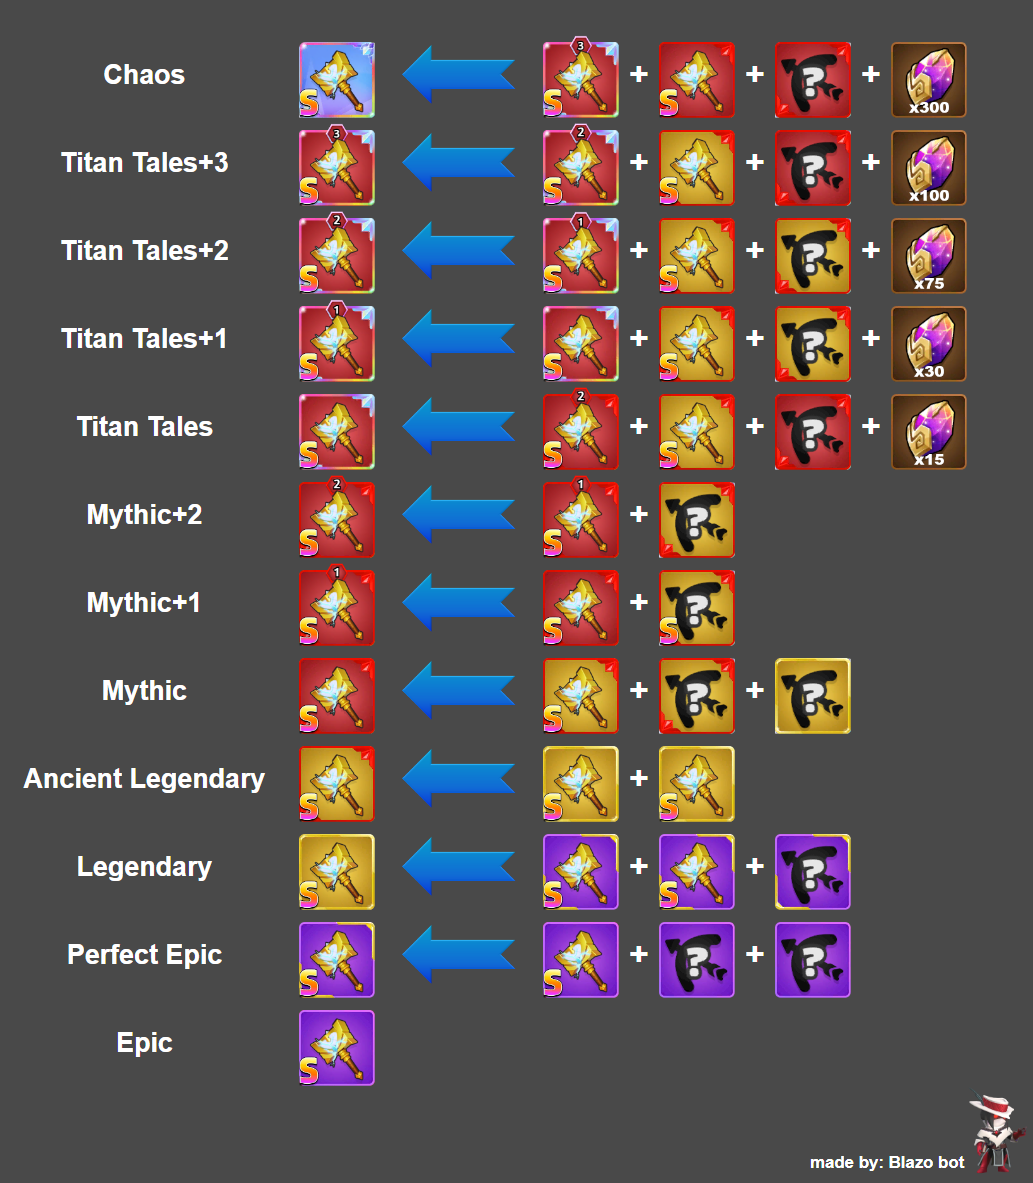
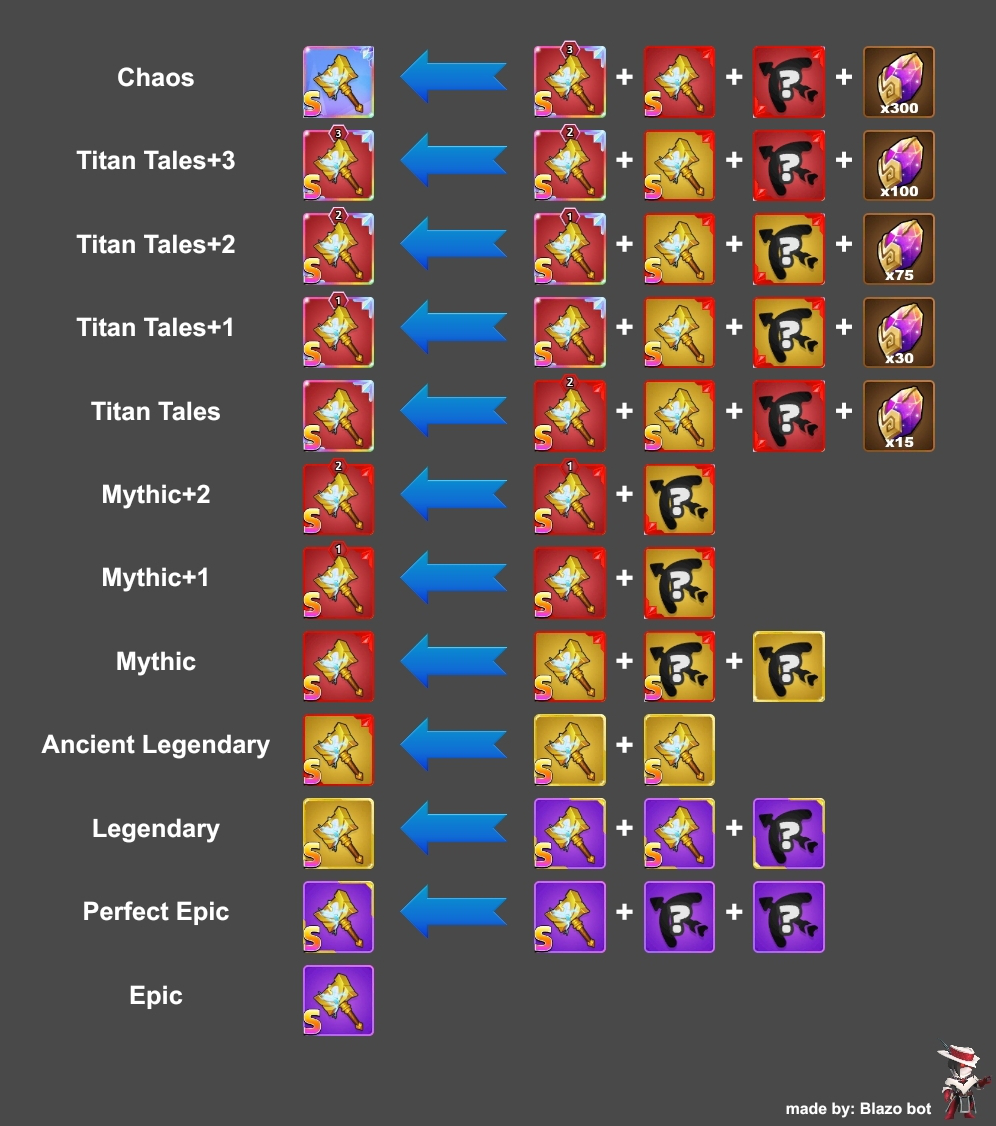
Fixed Fusing Hierarchy S Chart & Upgrade Static Version for cache

diff --git a/web-project/app/settings.py b/web-project/app/settings.py
@@ -91,7 +91,7 @@ LOCALE_PATHS = (
 ##########
 STATIC_URL = '/static/'
 STATIC_ROOT = os.path.join(BASE_DIR, "calculator/static/")
-STATIC_VERSION = "2.0.0"
+STATIC_VERSION = "2.0.0a"
 
 
 ########
